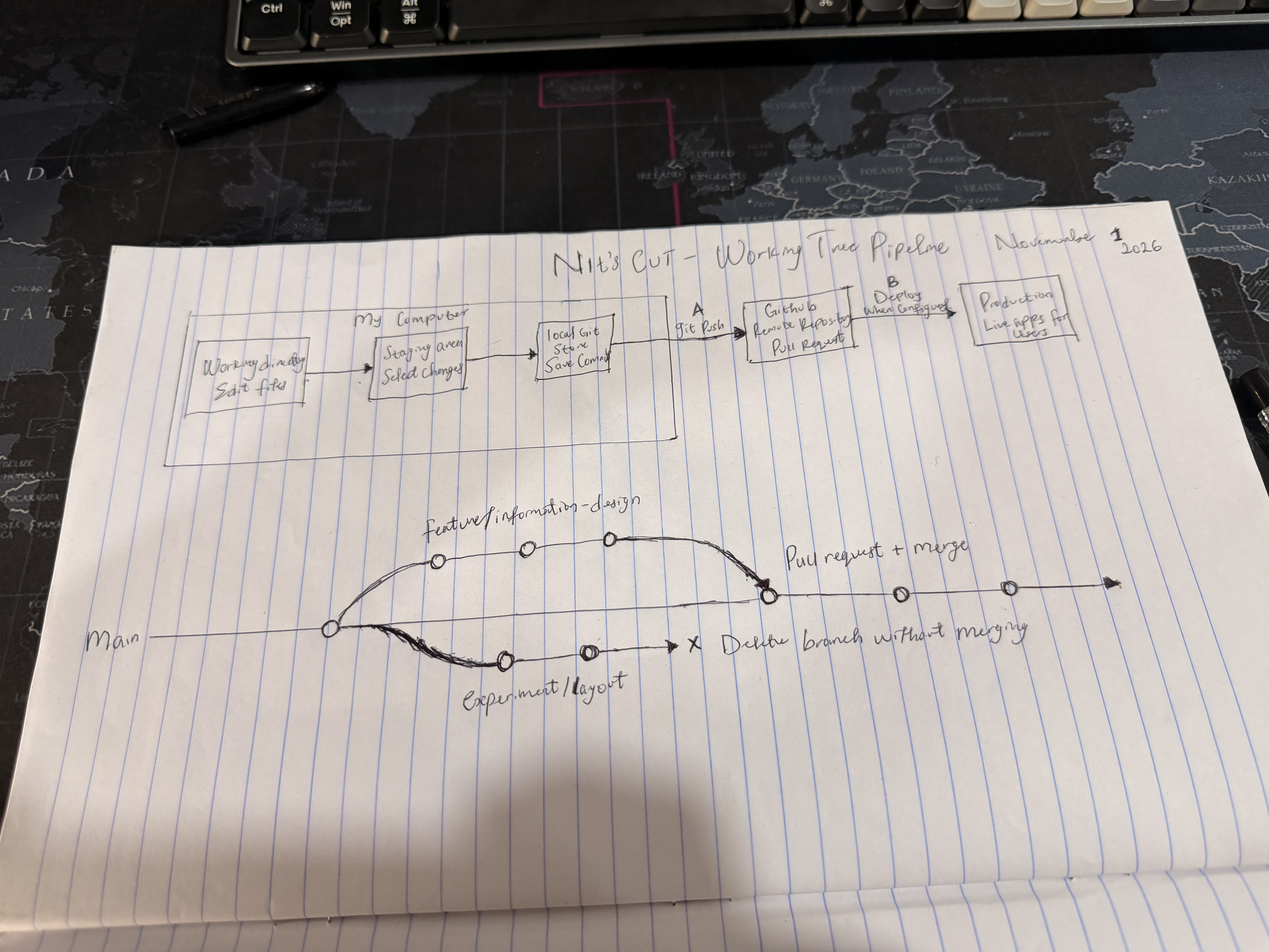
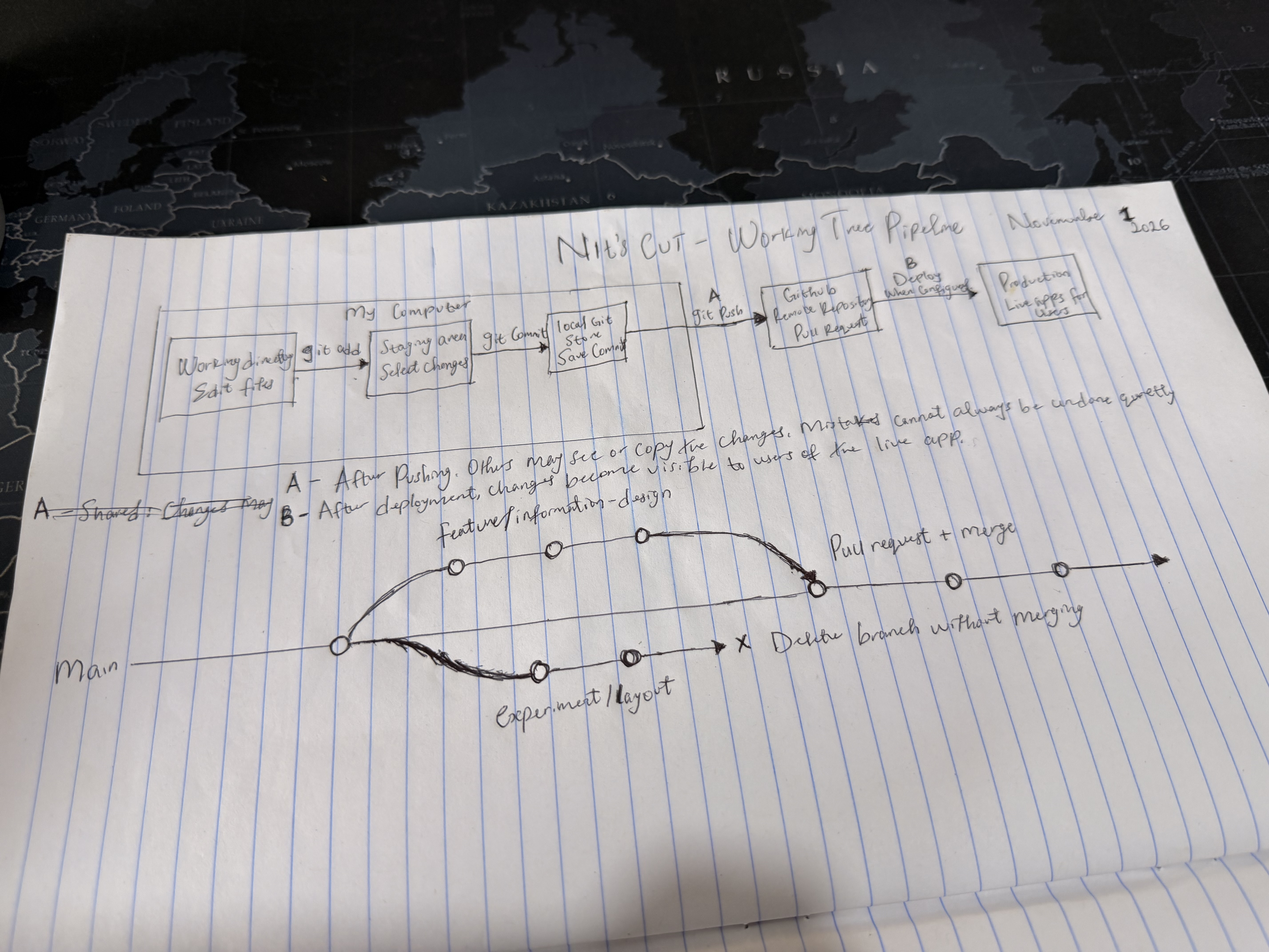
docs(task-02): update hand-drawn working tree diagram with A/B boundaries and git labels

diff --git a/task-02-repository-and-scaffold/docs/deliverables-checklist.md b/task-02-repository-and-scaffold/docs/deliverables-checklist.md
@@ -25,7 +25,7 @@ Copied filenames from the original assessment. Unchecked means not verified for 
 - [x] 11-write-succeeded-logs.txt (Captured POST /inquiries 201 Created and SQL logs)
 - [x] 12-database-rows.png (Captured SQLite table with two rows separated by 2m 18s)
 - [x] 13-write-failed-logs.txt (Captured severed connection HTTP 500 failure logs)
-- [ ] 14-working-tree-drawing.jpg (Initial drawing photographed; awaiting learner labels for A/B and git add/commit)
+- [x] 14-working-tree-drawing.jpg (Hand-drawn working tree diagram with A/B boundaries and git add/commit labels)
 - [ ] 15-git-log-graph.txt (Awaiting feature branch, PR, and discarded branch exercise)
 - [x] 16-head-route-one.png (Rendered <head> and title for Route 1: Home)
 - [x] 17-head-route-two.png (Rendered <head> and title for Route 2: Services)
@@ -42,5 +42,5 @@ Copied filenames from the original assessment. Unchecked means not verified for 
 - [ ] Genuine defects, reasons, commits and viva preparation complete.
 - [ ] Secondary model comparison verified with learner's actual experience.
 - [ ] Independent human test conducted and recorded in `docs/readme-test.md`.
-- [ ] Working tree drawing updated with required labels and re-photographed.
+- [x] Working tree drawing updated with required labels and re-photographed.
 - [ ] Step 9 branching workflow (feature branch, PR, discarded branch) executed upon learner authorization.
